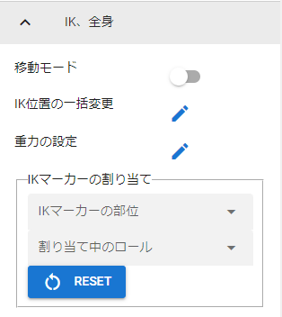
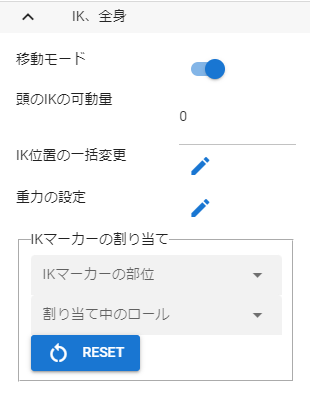
4/11時点

diff --git a/docs/source/man2/operation_vrm.rst b/docs/source/man2/operation_vrm.rst
@@ -190,18 +190,20 @@ IKマーカーを数値で操作する
 | 　本アプリではVRMは標準でいくつかの可動範囲の制御が適用されます。それらによりVRMが無理なく自然な人体の動きを再現できます。
 | 　しかしながら本アプリのIKと競合することもあり、それが原因でポーズやアニメーションが再現しきれない仕様も備わってしまっています。人体として多少不自然でもいいから完全に自由にポージングさせたい場合、これらIKマーカーの制限を外すことができます。
 
-腰（Pelvis）と足（LowerLeg）、足首（Leg）の連動、手（Hand）と腕（LowerArm）の連動
+腰（Pelvis）と足（LowerLeg）、足首（Leg）と足の方向（LowerLeg）の連動、手（Hand）と腕（LowerArm）の連動
     * 腰を上下したときに足（LowerLeg）がその動きに合わせて前後に若干移動
     * 足首を移動させたときに足（LowerLeg）を前後に若干移動
     * 手を移動させたときに腕（肘）も追随して移動
+    * 腕の回転軸に合わせて手も回転
 
-    →これらはキーフレームのプレビューやポーズ、アニメーション再生時には自動的にオフになり、余計な干渉を防ぎます。
+    | →これらはキーフレームのプレビューやポーズ、アニメーション再生時には自動的にオフになり、余計な干渉を防ぎます。
+    | 設定画面の「Modelタブ」→「ボーンの連動」でオン・オフが切り替わります。
 
-足（LowerLeg）、足首（Leg）のX軸の回転角度・ひじ（LowerArm）のY軸の回転角度
+足の方向（LowerLeg）、足首（Leg）のX軸の回転角度・ひじ（LowerArm）のY軸の回転角度
     * ひじ、膝から下、足首の回転の範囲が実際の人体に沿って制限がかかります。
-    * 設定画面の「Modelタブ」→「VRMの体に自然な可動制御を適用する」でオン・オフが切り替わります。他で自動的には切り替わりません。
+    * 設定画面の「Modelタブ」→「VRMの体に自然な可動制御を適用する」でオン・オフが切り替わります。
 
-足（LowerLeg）を動かした後の足首（Leg）のX軸の回転
+足の方向（LowerLeg）を動かした後の足首（Leg）のX軸の回転
     * 足（LowerLeg）を前後に動かしたときに足首（Leg）の回転角度をLowerLegに合わせて回転させます。
     * 設定画面の「Modelタブ」→「足首の回転を自動で行う」でオン・オフが切り替わります。
 
@@ -248,9 +250,24 @@ IKマーカーを別オブジェクトに切り替える
 
 |
 
-.. index:: 手のひらの操作（VRMの操作）
+頭のIKの可動量
+----------------------
 
-手のひらの操作
+　頭（Head）のIKは全身のIKとは実際には別個になっており、全身を動かしたときに頭だけ予期せぬ動きをすることがあります。この設定でその可動の量を制御できます。
+
+.. image:: ../img/operation_vrm_k.png
+    :align: center
+
+|
+
+| ``0`` で頭（Head）を動かなくします（左右への傾きがされなくなります）。LookAtとEyeViewHandleは動くため基本的な頭の動きは引き続き行なえます。
+| ``1`` 以上ではその傾きの追随の具合を調整することになります。
+
+|
+
+.. index:: 手のポーズの操作（VRMの操作）
+
+手のポーズの操作
 --------------------
 
 　手のひらを操作するには右のプロパティから「腕・手」タブを開き、左右の手を好きなポーズを選んでください。

diff --git a/docs/source/man2/prop_vrm.rst b/docs/source/man2/prop_vrm.rst
@@ -8,6 +8,11 @@ VRoid/VRM
 
 
 .. index:: IK（VRMのプロパティ)
+.. index:: 移動モード（VRMのプロパティ)
+.. index:: 頭のIKの可動量（VRMのプロパティ)
+.. index:: IK位置の一括変更（VRMのプロパティ)
+.. index:: 重力の設定（VRMのプロパティ)
+.. index:: IKマーカーの割り当て（VRMのプロパティ)
 
 IK、全身
 --------------------
@@ -21,6 +26,7 @@ IK、全身
 
 
 | 移動モード・・・VRoid/VRM全体を一括で移動・回転させるモードに切り替えます。これが有効中でも各IKパーツの移動や回転も可能です。
+| 頭のIKの可動量・・・HeadのIKの動き（左右への傾き）のレベルを調整します。0は頭の傾きを一切しなくなります。
 | IK位置の一括変更・・・スプレッドシート形式でIKパーツの位置や回転を指定できるウィンドウを表示します。
 | 重力の設定・・・VRMが標準で持つボーンに対して重力の設定を行います。
 | IKマーカーの割り当て・・・VRMが持つIKマーカーを別のオブジェクトに切り替えます。
@@ -32,7 +38,7 @@ IKマーカーの割り当て
 
 |
 
-.. index:: 腕、手（VRMのプロパティ)
+.. index:: 手のポーズ（VRMのプロパティ)
 
 腕、手
 ----------------
@@ -80,6 +86,8 @@ IKマーカーの割り当て
     | 　なお、他のアプリでも上記を目印にすればブレンドシェイプを探しやすいと思います。
 
 |
+
+.. index:: 自動まばたき（VRMのプロパティ）
 
 自動まばたき
 ^^^^^^^^^^^^^^^

diff --git a/docs/source/man5/config.rst b/docs/source/man5/config.rst
@@ -105,8 +105,15 @@
 VRMの体に自然な稼働制御を適用する
     | 　VRMのひじ（LowerArm）、足（LowerLeg）、足首（Leg）の回転可能範囲を人体の可動域に合わせます。
     | 　これをオンにするとVRMは確かに自然な可動域にはなりますが、その制限を逃れようとして対象部位に追随する他のIKの位置・回転が予期せぬ動作になることがあります。
-    | 　ポーズやアニメーションを作る際はオフにすることをおすすめします。
+    | 　必要に応じてオフにすることをおすすめします。
 
+ボーンの連動
+    :Pelvis & LowerLeg:
+        ``Pelvis`` の動きに合わせて左右の ``LowerLeg`` を上下前後に動かします。
+    :Hand & LowerArm:
+        ``Hand`` の動きに合わせて左右の ``LowerArm`` を追随して動かします。また、人体らしく自然な動きになるよう ``LowerArm`` の角度に合わせて ``Hand`` を自動的に回転させます。
+    :Leg & LowerLeg:
+        ``Leg`` の動きに合わせて左右の ``LowerLeg`` を追随して動かします。これによりひざ付近の動きが制限がかかる場合がありますので必要に応じてオフにしてください。
 
 |
 

diff --git a/docs/source/man4/specification.rst b/docs/source/man4/specification.rst
@@ -15,7 +15,7 @@
 .. image:: img/specifi_1.png
     :align: left
 
-| 　タイムラインはアニメーションの基本単位です。１つのタイムラインに１つのロール、1つのキャストが対応しています。
+| 　タイムラインはアニメーションの基本単位です。1つのタイムラインに1つのロール、1つのキャストが対応しています。
 | 　実際の機能としては次のロールがすべて受け持っています。
 
 |
@@ -49,7 +49,7 @@
 .. image:: img/specifi_3.png
     :align: left
 
-| 　キャストとは、ロールに割り当てるオブジェクトのことです。ここが実際のVRoid/VRM、FBX、Light、Audioなどのオブジェクトの実体となっています。
+| 　キャストとはロールに割り当てるオブジェクトのことです。ここが実際のVRoid/VRM、FBX、Light、Audioなどのオブジェクトの実体となっています。
 | 　本アプリでは単にオブジェクトとか、アバターなどとも言い換えています。
 
 |

diff --git a/docs/source/man4/animation_register.rst b/docs/source/man4/animation_register.rst
@@ -67,7 +67,7 @@
 
 |
 
-.. index:: キーフレームに登録する・更新する
+.. index:: キーフレームの登録・更新
 
 キーフレームに登録する・更新する
 =====================================
@@ -243,6 +243,8 @@
 
 
 |
+
+.. index:: キーフレームの間隔を設定
 
 キーフレームの間隔を設定する
 ===================================
